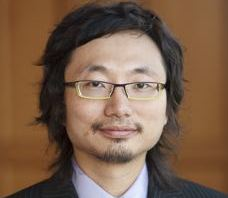
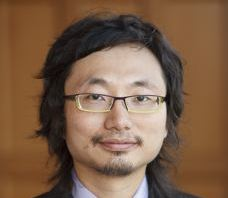
Automated commit at 2014-10-06 07:02:21 UTC by middleman-deploy 3.0.14

diff --git a/index.html b/index.html
@@ -38,6 +38,7 @@
   </header>
 
   <nav class="global-nav">
+  <img class="logo" src="img/logo-black.png">
   <ul>
     <li><a href="#about">关于大会</a></li>
     <li><a href="#speakers">演讲嘉宾</a></li>
@@ -89,7 +90,7 @@
       <li>
         <a href="#speaker_胜寒" rel="modal:open">
           <figure>
-            <img src="photos/wangshenghan2.jpg" alt="胜寒">
+            <img src="photos/wangshenghan3.jpg" alt="胜寒">
           </figure>
           <h3>胜寒</h3>
           <h4>纽约留学女</h4>
@@ -163,7 +164,7 @@
       
     </ul>
     </p>
-      <p>胜寒，美国布朗大学历史系毕业，法国蓝带葡萄酒管理专业毕业，英国葡萄酒及烈酒教育基金会WSET高级品酒师。在纽约米其林三星餐厅Eleven Madison Park有过工作经验；《WINE》葡萄酒杂志撰稿人。曾制作过总点击率上亿的自媒体视频“纽约留学女”系列，以及针对葡萄酒教育的“醉鹅娘”系列。和喃猫、志伟一起创办了“企鹅指南”，旨在做出最有趣的法餐和葡萄酒教育。</p>
+      <p>王胜寒，美国布朗大学历史系毕业，法国蓝带葡萄酒管理专业毕业，英国葡萄酒及烈酒教育基金会WSET高级品酒师。在纽约米其林三星餐厅Eleven Madison Park有过工作经验；《WINE》葡萄酒杂志撰稿人。曾制作过总点击率上亿的自媒体视频“纽约留学女”系列，以及针对葡萄酒教育的“醉鹅娘”系列。和喃猫、志伟一起创办了“企鹅指南”，旨在做出最有趣的法餐和葡萄酒教育。</p>
     
     <p></p>
   </div>

diff --git a/css/main.css b/css/main.css
@@ -131,11 +131,12 @@ img { max-width: 100%; }
      -moz-box-shadow: 0 0 3px rgba(0, 0, 0, 0.7);
           box-shadow: 0 0 3px rgba(0, 0, 0, 0.7);
 }
+.global-nav > .logo {
+  padding-left: 20px;
+  width: 250px;
+  float: left;
+}
 .global-nav ul {
-  background-image: url("../img/logo-black.png");
-  background-size: 18%;
-  background-repeat: no-repeat;
-  background-position: left top;
   margin: 0 20px;
   padding: 0;
  }
@@ -947,6 +948,7 @@ h3 {
 }
 
 @media (max-width: 640px) {
+  .global-nav .logo { float: none; }
   .global-nav ul li a { font-size: 16px; padding: 5px;}
   .ted_videos { width: 320px; }
   #sponsors-details ul li { max-width: none !important; width: 100%; }
